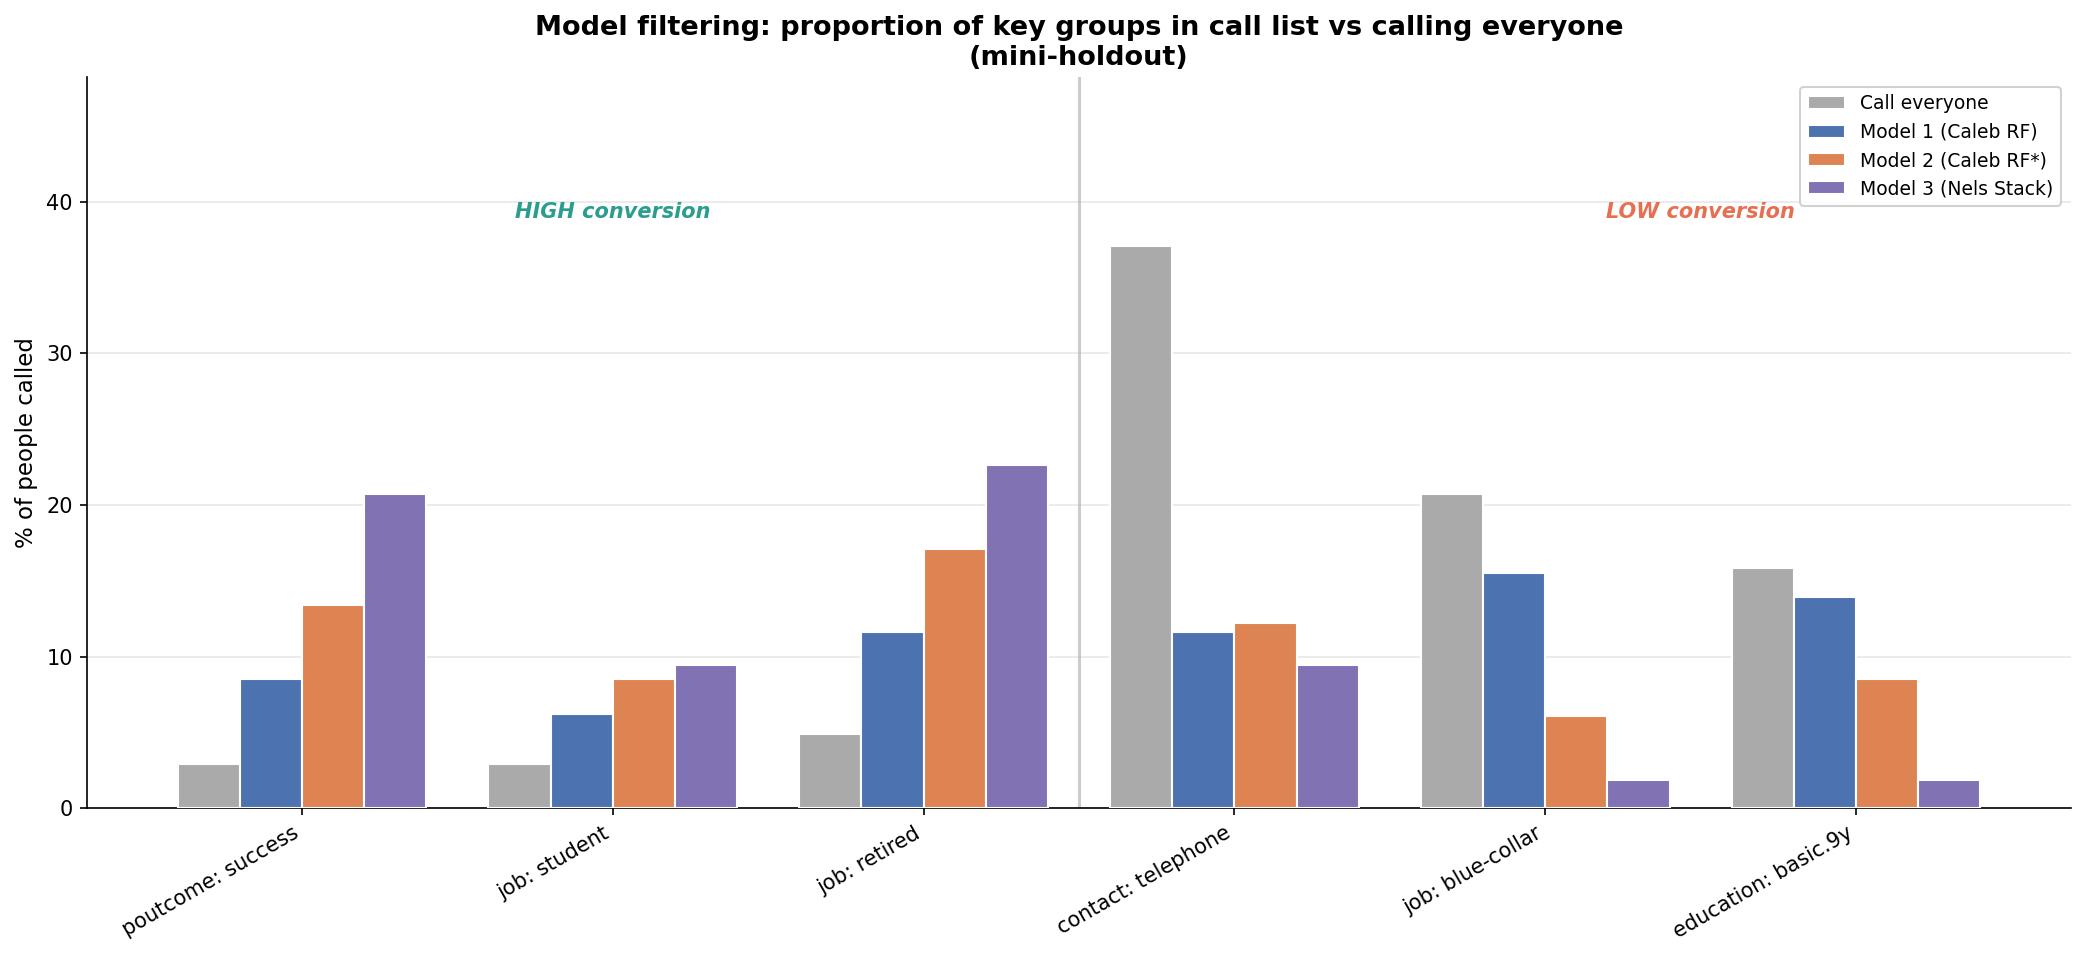
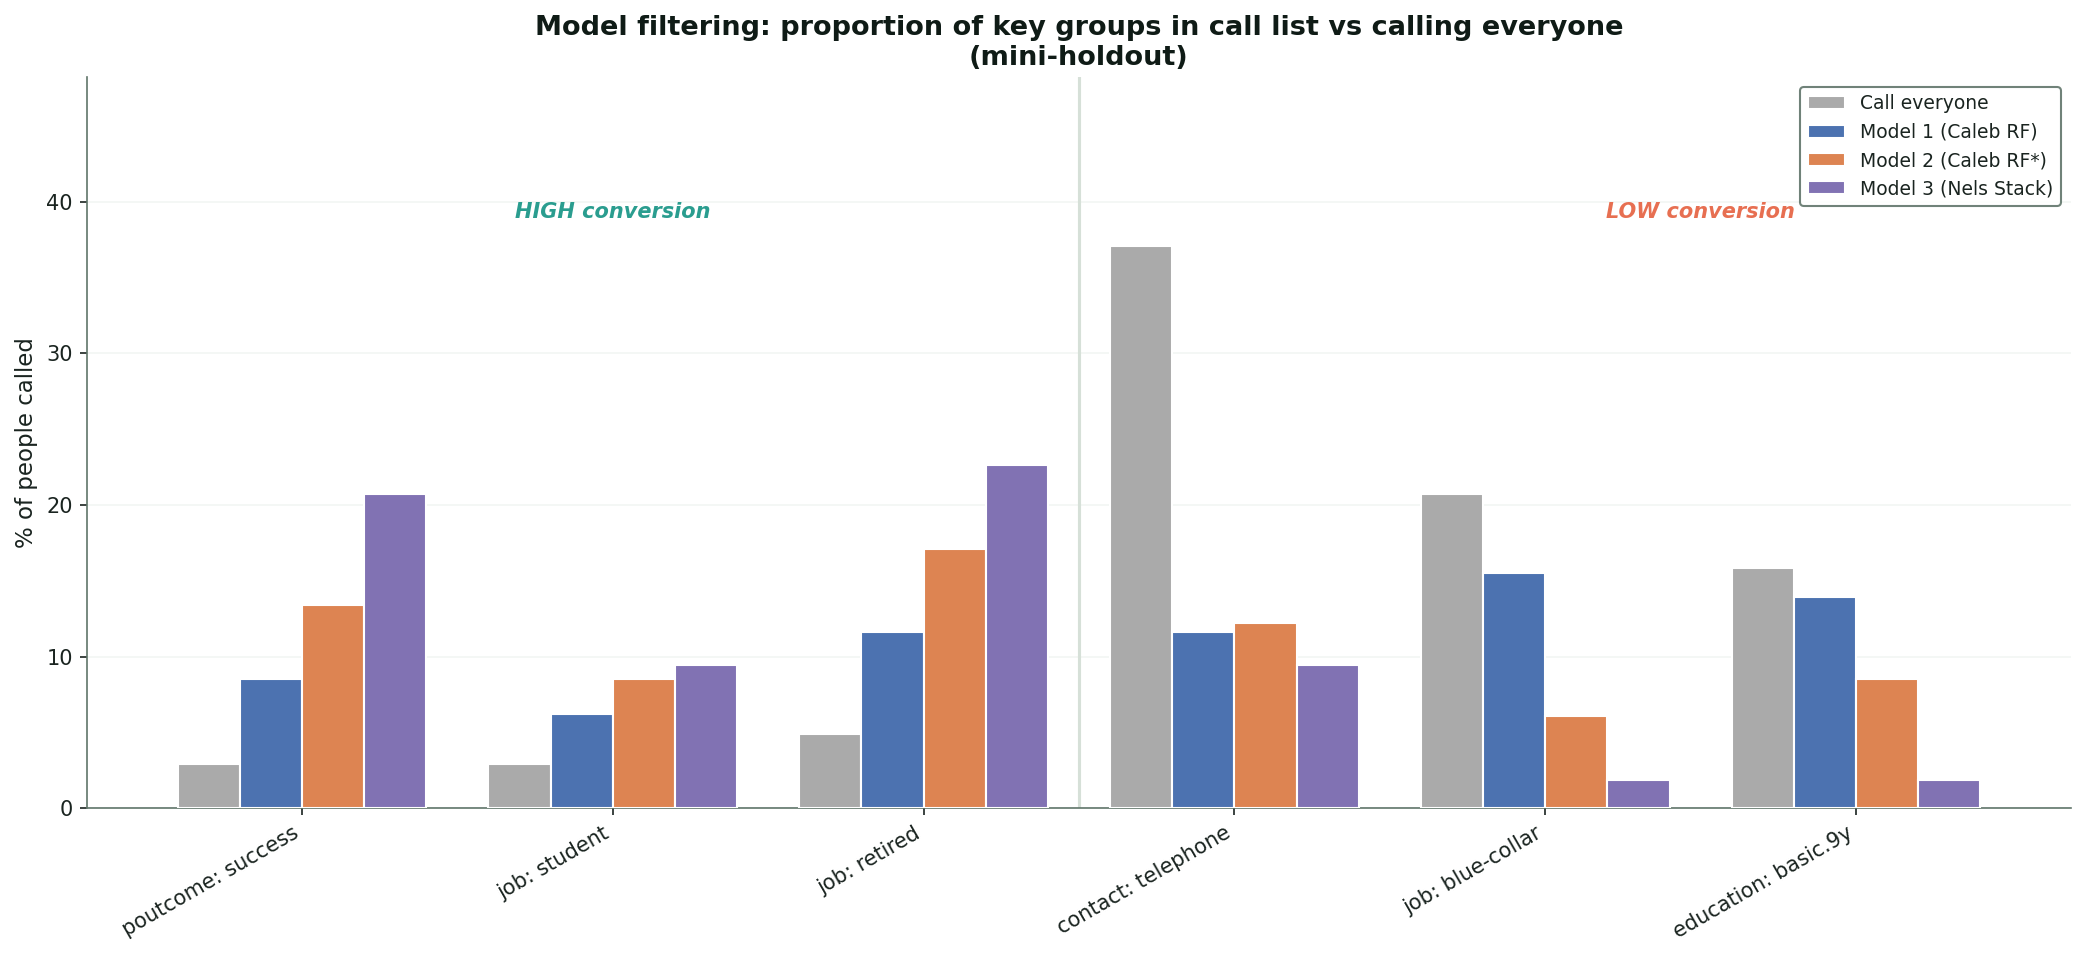
Implement dark mode theming for visualizations and update related charts

Changed region(s): [[0.2494, 0.0, 0.7794, 0.0909], [0.9041, 0.0909, 0.9664, 0.2121], [0.0, 0.3636, 0.0312, 0.3939]]

diff --git a/module_2-bank/visualisation/group_profiles_and_filtering.py b/module_2-bank/visualisation/group_profiles_and_filtering.py
@@ -11,19 +11,14 @@ import pandas as pd
 import numpy as np
 import matplotlib.pyplot as plt
 
+import detailed_theme as dt
+
 HERE = Path(__file__).parent
 ROOT = HERE.parent
 TRAIN_PATH = ROOT / "training_data" / "bank.csv"
 TEST_PATH = ROOT / "test_data" / "bank_holdout_test_mini.csv"
 ANSWERS_PATH = ROOT / "verification_data" / "bank_holdout_test_mini_answers.csv"
 PRED_DIR = ROOT / "predictions" / "mini-holdout"
-
-GREEN = "#2a9d8f"
-RED = "#e76f51"
-BLUE = "#4C72B0"
-ORANGE = "#DD8452"
-PURPLE = "#8172B3"
-GREY = "#aaaaaa"
 
 CATS = ["job", "marital", "education", "contact", "poutcome"]
 
@@ -95,8 +90,15 @@ def run_analysis() -> dict:
     }
 
 
-def make_figures(data: dict) -> dict[str, plt.Figure]:
+def make_figures(data: dict, theme: str = "light") -> dict[str, plt.Figure]:
     figs = {}
+    t = dt.get_theme(theme)
+    GREEN = t["good"]
+    RED = t["bad"]
+    BLUE = t["blue"]
+    ORANGE = t["orange"]
+    PURPLE = t["purple"]
+    GREY = t["neutral"]
 
     # --- Fig 1: group profiles ---
     baseline = data["baseline_rate"]
@@ -115,7 +117,8 @@ def make_figures(data: dict) -> dict[str, plt.Figure]:
     ax_top.set_xlim(0, max(rates_t) * 1.25)
     ax_top.set_xlabel("Conversion rate (%)")
     ax_top.set_title("Top 3 most likely to subscribe", fontsize=13, fontweight="bold", color=GREEN)
-    ax_top.legend(fontsize=9)
+    legend_top = ax_top.legend(fontsize=9)
+    dt.style_legend(legend_top, t)
     ax_top.spines[["top", "right"]].set_visible(False)
 
     labels_b = [f"{r['feature']}: {r['value']}\n(n={r['n']:,})" for r in bot3]
@@ -128,10 +131,15 @@ def make_figures(data: dict) -> dict[str, plt.Figure]:
     ax_bot.set_xlim(0, baseline * 100 * 1.6)
     ax_bot.set_xlabel("Conversion rate (%)")
     ax_bot.set_title("Top 3 least likely to subscribe", fontsize=13, fontweight="bold", color=RED)
-    ax_bot.legend(fontsize=9)
+    legend_bot = ax_bot.legend(fontsize=9)
+    dt.style_legend(legend_bot, t)
     ax_bot.spines[["top", "right"]].set_visible(False)
 
-    fig.suptitle("Who says YES and who says NO?  (training data, n >= 30)", fontsize=14, fontweight="bold", y=1.02)
+    fig.suptitle("Who says YES and who says NO?  (training data, n >= 30)", fontsize=14,
+                 fontweight="bold", y=1.02, color=t["text_bold"])
+    dt.apply_figure(fig, t)
+    dt.apply_axes(ax_top, t)
+    dt.apply_axes(ax_bot, t)
     fig.tight_layout()
     figs["group_profiles"] = fig
 
@@ -156,7 +164,7 @@ def make_figures(data: dict) -> dict[str, plt.Figure]:
                label=MODEL_SHORT_NAMES.get(key, key), color=colors[i % len(colors)],
                edgecolor="white", zorder=3)
 
-    ax.axvline(2.5, color="#cccccc", linestyle="-", linewidth=1.5, zorder=1)
+    ax.axvline(2.5, color=t["grid"], linestyle="-", linewidth=1.5, zorder=1)
     ylim = ax.get_ylim()[1] if ax.get_ylim()[1] > 0 else 30
     ax.text(1.0, ylim, "HIGH conversion", ha="center", fontsize=10, fontweight="bold", color=GREEN, style="italic")
     ax.text(4.5, ylim, "LOW conversion", ha="center", fontsize=10, fontweight="bold", color=RED, style="italic")
@@ -164,12 +172,15 @@ def make_figures(data: dict) -> dict[str, plt.Figure]:
     ax.set_xticklabels(group_labels, rotation=30, ha="right", fontsize=10)
     ax.set_ylabel("% of people called", fontsize=11)
     ax.set_title("Model filtering: proportion of key groups in call list vs calling everyone\n(mini-holdout)",
-                 fontsize=13, fontweight="bold")
-    ax.legend(loc="upper right", fontsize=9, framealpha=0.9)
+                 fontsize=13, fontweight="bold", color=t["text_bold"])
+    legend_filter = ax.legend(loc="upper right", fontsize=9, framealpha=0.9)
+    dt.style_legend(legend_filter, t)
     ax.spines[["top", "right"]].set_visible(False)
-    ax.grid(axis="y", alpha=0.3, zorder=0)
+    ax.grid(axis="y", alpha=0.3, zorder=0, color=t["grid"])
     all_vals = everyone_pcts + [v for pcts in model_pcts.values() for v in pcts]
     ax.set_ylim(0, max(all_vals) * 1.3)
+    dt.apply_figure(fig2, t)
+    dt.apply_axes(ax, t)
     fig2.tight_layout()
     figs["model_filtering"] = fig2
 

diff --git a/module_2-bank/visualisation/campaign_analysis.py b/module_2-bank/visualisation/campaign_analysis.py
@@ -8,6 +8,8 @@ Called by main_vis.py — not intended to run standalone.
 from pathlib import Path
 import pandas as pd
 import matplotlib.pyplot as plt
+
+import detailed_theme as dt
 from sklearn.metrics import confusion_matrix
 
 CALL_COST = -11 * 0.5
@@ -123,22 +125,25 @@ def run_analysis() -> dict:
     }
 
 
-def make_comparison_chart(scenarios: list[tuple[str, float]], title: str):
+def make_comparison_chart(scenarios: list[tuple[str, float]], title: str, theme: str = "light"):
+    t = dt.get_theme(theme)
     labels = [s[0] for s in scenarios]
     values = [s[1] for s in scenarios]
-    colors = ["#aaaaaa" if "No model" in l else "#4C72B0" for l in labels]
+    colors = [t["neutral"] if "No model" in l else t["blue"] for l in labels]
     fig, ax = plt.subplots(figsize=(max(6, len(scenarios) * 1.8), 5))
     ax.bar(labels, values, color=colors, edgecolor="white")
-    ax.axhline(0, color="black", linewidth=0.8)
-    ax.set_title(title, fontsize=13, fontweight="bold")
+    ax.axhline(0, color=t["spine"], linewidth=0.8)
+    ax.set_title(title, fontsize=13, fontweight="bold", color=t["text_bold"])
     ax.set_ylabel("Campaign Value ($)")
     ax.spines[["top", "right"]].set_visible(False)
     plt.xticks(rotation=15, ha="right")
+    dt.apply_figure(fig, t)
+    dt.apply_axes(ax, t)
     fig.tight_layout()
     return fig
 
 
-def make_figures(data: dict) -> dict[str, plt.Figure]:
+def make_figures(data: dict, theme: str = "light") -> dict[str, plt.Figure]:
     mini_scenarios = [(data["mini_baseline"]["label"], data["mini_baseline"]["value"])]
     for m in data["mini_models"]:
         mini_scenarios.append((m["label"], m["value"]))
@@ -148,8 +153,12 @@ def make_figures(data: dict) -> dict[str, plt.Figure]:
         large_scenarios.append((p["label"], p["value_projected"]))
 
     return {
-        "campaign_mini_holdout": make_comparison_chart(mini_scenarios, "Mini Holdout: No Model vs ML Models"),
-        "campaign_large_holdout": make_comparison_chart(large_scenarios, "Large Holdout Projection: No Model vs ML Models"),
+        "campaign_mini_holdout": make_comparison_chart(
+            mini_scenarios, "Mini Holdout: No Model vs ML Models", theme
+        ),
+        "campaign_large_holdout": make_comparison_chart(
+            large_scenarios, "Large Holdout Projection: No Model vs ML Models", theme
+        ),
     }
 
 

diff --git a/module_2-bank/visualisation/detailed_theme.py b/module_2-bank/visualisation/detailed_theme.py
@@ -1,0 +1,65 @@
+"""
+Shared theming helpers for detailed charts.
+"""
+
+THEMES = {
+    "light": {
+        "fig_bg": "#ffffff",
+        "ax_bg": "#ffffff",
+        "text": "#1a2420",
+        "text_bold": "#0f1b16",
+        "grid": "#d6e0d8",
+        "spine": "#60756a",
+        "neutral": "#aaaaaa",
+        "good": "#2a9d8f",
+        "bad": "#e76f51",
+        "blue": "#4C72B0",
+        "orange": "#DD8452",
+        "purple": "#8172B3",
+        "baseline": "#e76f51",
+    },
+    "dark": {
+        "fig_bg": "#0f1713",
+        "ax_bg": "#17241d",
+        "text": "#ecf6f0",
+        "text_bold": "#f4fbf7",
+        "grid": "#2c3d33",
+        "spine": "#3a5044",
+        "neutral": "#8fa99c",
+        "good": "#54d39a",
+        "bad": "#ff8d7a",
+        "blue": "#8ab4ff",
+        "orange": "#ffb26b",
+        "purple": "#c2a7ff",
+        "baseline": "#ff8d7a",
+    },
+}
+
+
+def get_theme(name: str) -> dict:
+    return THEMES.get(name, THEMES["light"])
+
+
+def apply_figure(fig, theme: dict) -> None:
+    fig.patch.set_facecolor(theme["fig_bg"])
+    fig.set_facecolor(theme["fig_bg"])
+
+
+def apply_axes(ax, theme: dict) -> None:
+    ax.set_facecolor(theme["ax_bg"])
+    ax.tick_params(colors=theme["text"])
+    ax.xaxis.label.set_color(theme["text"])
+    ax.yaxis.label.set_color(theme["text"])
+    ax.title.set_color(theme["text_bold"])
+    for spine in ax.spines.values():
+        spine.set_color(theme["spine"])
+
+
+def style_legend(legend, theme: dict) -> None:
+    if legend is None:
+        return
+    frame = legend.get_frame()
+    frame.set_facecolor(theme["ax_bg"])
+    frame.set_edgecolor(theme["spine"])
+    for text in legend.get_texts():
+        text.set_color(theme["text"])

diff --git a/module_2-bank/visualisation/grade_value_per_call.py b/module_2-bank/visualisation/grade_value_per_call.py
@@ -8,6 +8,8 @@ Called by main_vis.py — not intended to run standalone.
 from pathlib import Path
 import pandas as pd
 import matplotlib.pyplot as plt
+
+import detailed_theme as dt
 from sklearn.metrics import confusion_matrix
 
 CALL_COST = -11 * 0.5
@@ -66,21 +68,26 @@ def run_analysis() -> dict:
             "baseline_fp": fp_all, "models": results}
 
 
-def make_figures(data: dict) -> dict[str, plt.Figure]:
+def make_figures(data: dict, theme: str = "light") -> dict[str, plt.Figure]:
+    t = dt.get_theme(theme)
     baseline_vpc = data["baseline_vpc"]
     names = [r["name"] for r in data["models"]]
     vpcs = [r["vpc"] for r in data["models"]]
-    colors = ["#2a9d8f" if v > baseline_vpc else "#DD8452" for v in vpcs]
+    colors = [t["good"] if v > baseline_vpc else t["bad"] for v in vpcs]
 
     fig, ax = plt.subplots(figsize=(max(6, len(names) * 1.5), 5))
     ax.bar(names, vpcs, color=colors, edgecolor="white")
-    ax.axhline(baseline_vpc, color="#e76f51", linestyle="--", linewidth=1.5,
+    ax.axhline(baseline_vpc, color=t["baseline"], linestyle="--", linewidth=1.5,
                label=f"Baseline / call everyone (${baseline_vpc:.2f})")
-    ax.set_title("Value per Call vs Call-Everyone Baseline", fontsize=13, fontweight="bold")
+    ax.set_title("Value per Call vs Call-Everyone Baseline", fontsize=13, fontweight="bold",
+                 color=t["text_bold"])
     ax.set_ylabel("Value per Call ($)")
     ax.set_xlabel("Model")
-    ax.legend(fontsize=9)
+    legend = ax.legend(fontsize=9)
+    dt.style_legend(legend, t)
     ax.spines[["top", "right"]].set_visible(False)
+    dt.apply_figure(fig, t)
+    dt.apply_axes(ax, t)
     fig.tight_layout()
     return {"value_per_call": fig}
 

diff --git a/module_2-bank/visualisation/main_vis.py b/module_2-bank/visualisation/main_vis.py
@@ -23,11 +23,13 @@ import marketing_plots
 HERE = Path(__file__).parent
 OUTPUT_DIR = HERE / "output"
 DETAILED_DIR = OUTPUT_DIR / "detailed"
+DETAILED_DARK_DIR = DETAILED_DIR / "dark"
 MARKETING_DIR = OUTPUT_DIR / "marketing"
 
 
 def main():
     DETAILED_DIR.mkdir(parents=True, exist_ok=True)
+    DETAILED_DARK_DIR.mkdir(parents=True, exist_ok=True)
 
     # ── run all analyses once ──
     print("Running analyses...")
@@ -48,12 +50,18 @@ def main():
         ("Campaign Analysis", campaign_analysis, campaign_data),
     ]
     for section_name, mod, data in modules_data:
-        figures = mod.make_figures(data)
+        figures = mod.make_figures(data, theme="light")
         for fig_name, fig in figures.items():
             path = DETAILED_DIR / f"{fig_name}.png"
             fig.savefig(path, dpi=150, bbox_inches="tight")
             plt.close(fig)
             print(f"  Saved: detailed/{fig_name}.png")
+        dark_figures = mod.make_figures(data, theme="dark")
+        for fig_name, fig in dark_figures.items():
+            path = DETAILED_DARK_DIR / f"{fig_name}.png"
+            fig.savefig(path, dpi=150, bbox_inches="tight")
+            plt.close(fig)
+            print(f"  Saved: detailed/dark/{fig_name}.png")
         md_sections.append(mod.make_markdown(data))
 
     (DETAILED_DIR / "report.md").write_text("\n".join(md_sections))

diff --git a/module_2-bank/page/technical.md b/module_2-bank/page/technical.md
@@ -227,7 +227,7 @@ y_pred = (y_pred_proba >= threshold).astype(int)
 | Model 1 — RF + SMOTE | 1,268 | $6,628.40 |
 | No model | 4,119 | –$1,576.47 |
 
-![Campaign value with and without the model]({{ '/module_2-bank/visualisation/output/detailed/campaign_large_holdout.png' | relative_url }})
+![Campaign value with and without the model]({{ '/module_2-bank/visualisation/output/detailed/campaign_large_holdout.png' | relative_url }}){: data-dark-src="{{ '/module_2-bank/visualisation/output/detailed/dark/campaign_large_holdout.png' | relative_url }}" }
 
 *Campaign value across the holdout set, with and without model filtering.*
 {: .figure-caption }
@@ -245,7 +245,7 @@ The model doesn't just pick fewer people — it picks **different** people. It s
 | Blue-collar workers (`job: blue-collar`) | 20.7% | 1.9% | **−18.8 pp** |
 | Basic education, 9 yr (`education: basic.9y`) | 15.9% | 1.9% | **−14.0 pp** |
 
-![Conversion rates by segment and the resulting call-list reshape]({{ '/module_2-bank/visualisation/output/detailed/group_profiles.png' | relative_url }})
+![Conversion rates by segment and the resulting call-list reshape]({{ '/module_2-bank/visualisation/output/detailed/group_profiles.png' | relative_url }}){: data-dark-src="{{ '/module_2-bank/visualisation/output/detailed/dark/group_profiles.png' | relative_url }}" }
 
 *Conversion rates by segment and the model's reshape of the call list.*
 {: .figure-caption }

diff --git a/module_2-bank/visualisation/output/detailed/report.md b/module_2-bank/visualisation/output/detailed/report.md
@@ -78,6 +78,3 @@ Baseline (call everyone): **$-0.38/call** (47 TP, 363 FP)
 | Model | Calls | TP (est) | FP (est) | Value (projected) |
 |-------|------:|---------:|---------:|------------------:|
 | No model (call everyone) | 4,119 | 472 | 3647 | $-1,576.47 |
-| 1 caleb (rf) | 1,268 | 305 | 963 | $6,628.40 |
-| 2 caleb (rf) | 798 | 272 | 526 | $7,774.86 |
-| 3 nels (stack_rf_knn) | 484 | 228 | 256 | $7,529.40 |
